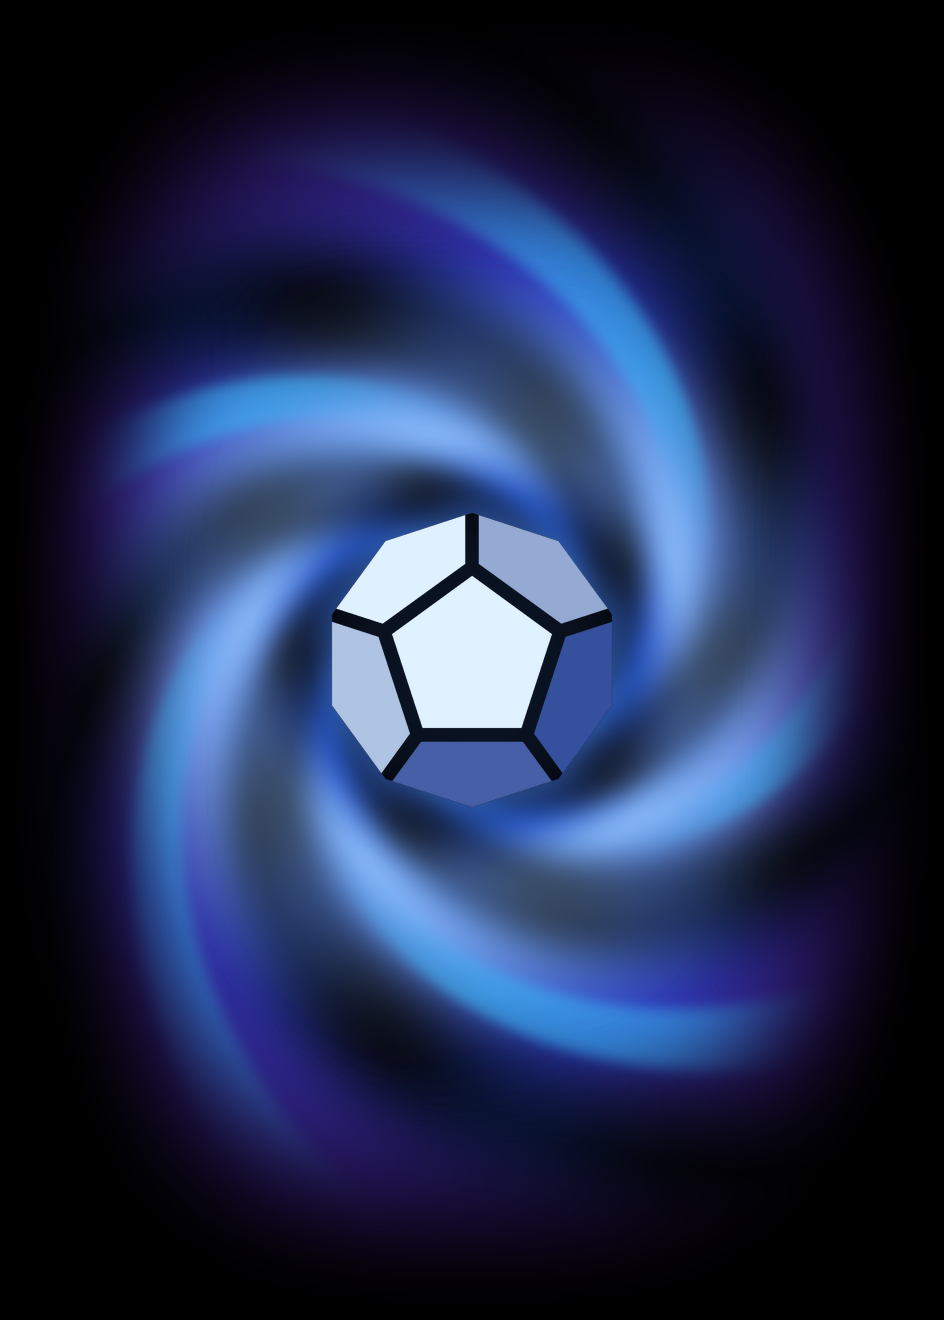
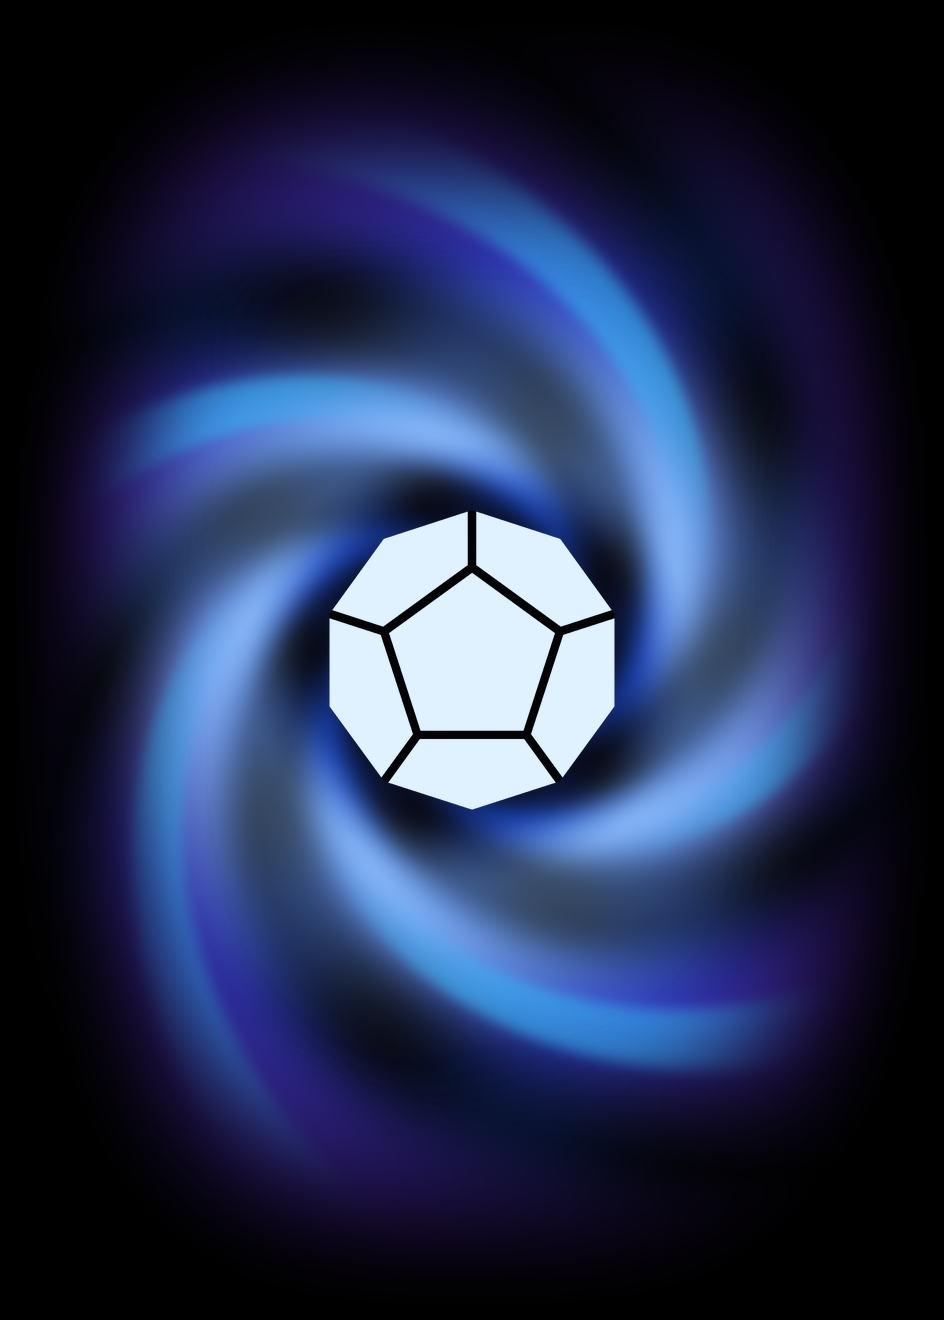
feat(cards): minimal gem in one flat color, thinner channels, no glow
MONO in build_cardback.py.

Changed region(s): [[0.3072, 0.3727, 0.6758, 0.6523]]

diff --git a/design/cardback/build_cardback.py b/design/cardback/build_cardback.py
@@ -24,7 +24,8 @@ TWIST = 1.7  # how tightly the arms coil (the home's: 2.6)
 ARMS = 5  # the vortex's arms (the home's has 3)
 GEM = False  # the ERAS gem, faceted, in the vortex's eye
 MINIMAL = True  # instead: the gem flat, its six faces apart by even channels
-CHANNEL = 0.035  # the channels' width, as a share of the gem's size
+CHANNEL = 0.022  # the channels' width, as a share of the gem's size
+MONO = True  # one flat color for every face (the mark read by its channels alone), no glow
 ACCENT = '#38bdf8'  # the vortex's accent arm: a light blue of the palette
 K = 2  # output scale
 NIGHT = (0, 0, 0, 255)  # the card's ground: black, the vortex fading into it
@@ -94,14 +95,14 @@ def minimal_gem(scene, size):
     sil = Image.new('L', (iw * ss, ih * ss), 0)
     ImageDraw.Draw(sil).polygon([to(p) for p in inset(geo.D, gap)], fill=255)  # the pieces' outer edge: no rim
     sil = np.asarray(sil.resize((iw, ih), Image.LANCZOS), np.float32)[..., None] / 255
-    glow = np.clip(blur(sil, size * 0.08) * 0.9, 0, 1) * np.array([0.25, 0.5, 0.95], np.float32)
+    glow = np.clip(blur(sil, size * 0.08) * (0 if MONO else 0.9), 0, 1) * np.array([0.25, 0.5, 0.95], np.float32)
     rgb = 1 - (1 - rgb) * (1 - glow)
     rgb = rgb * (1 - sil * 0.85)  # the channels show a dark ground, not the vortex
     for poly, lit in pieces:
         m = Image.new('L', (iw * ss, ih * ss), 0)
         ImageDraw.Draw(m).polygon([to(p) for p in poly], fill=255)
         m = np.asarray(m.resize((iw, ih), Image.LANCZOS), np.float32)[..., None] / 255
-        tone = dark + (light - dark) * (0.1 + 0.9 * lit)
+        tone = light if MONO else dark + (light - dark) * (0.1 + 0.9 * lit)
         rgb = rgb * (1 - m) + tone * m
     scene[..., :3] = rgb
     return scene
